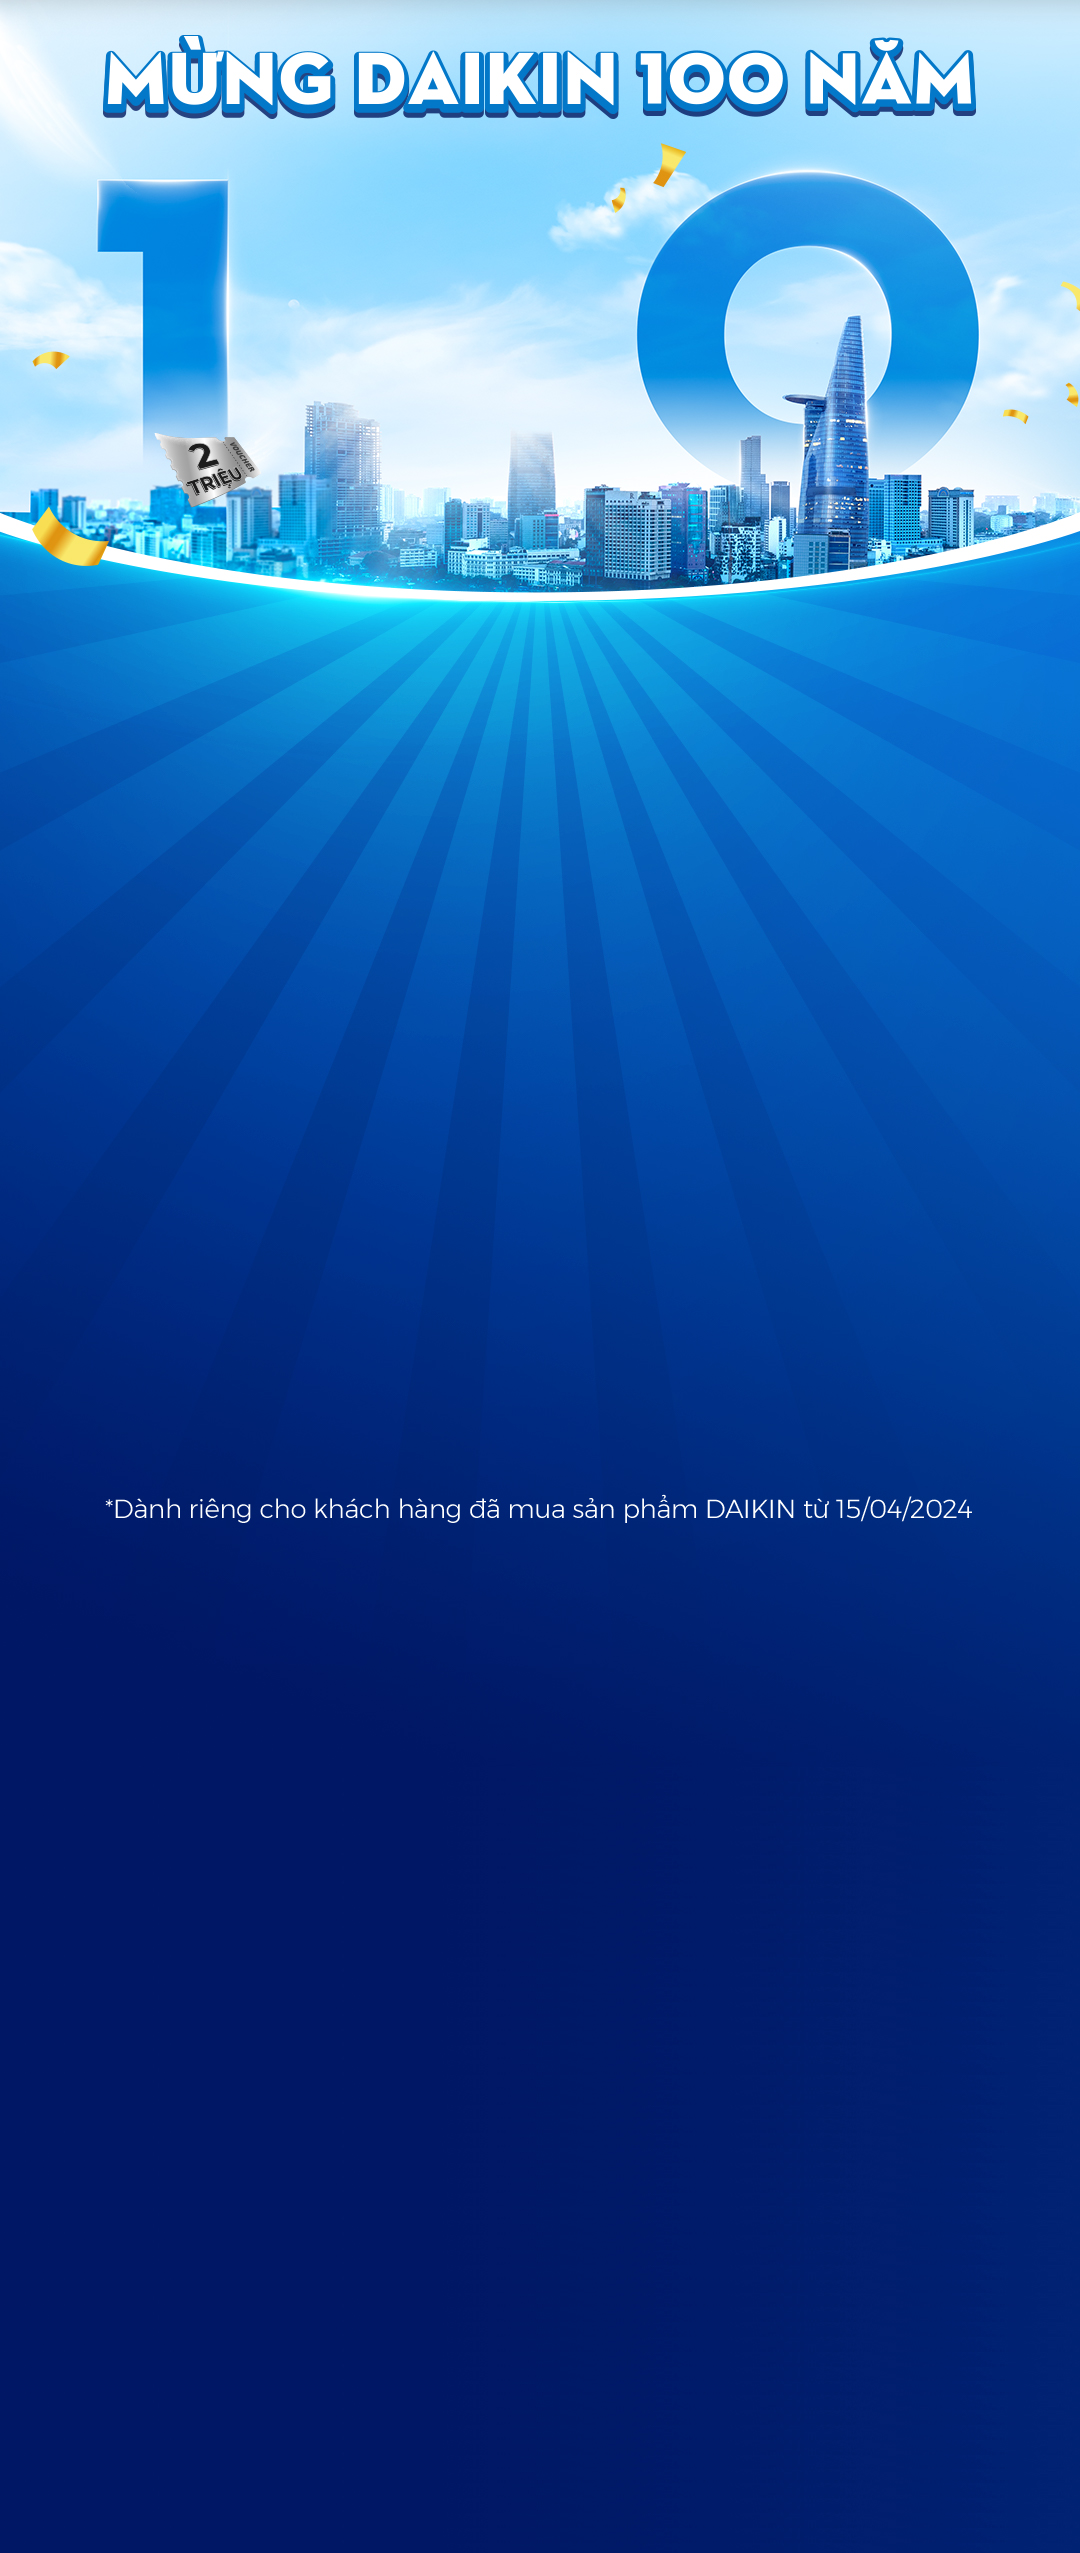
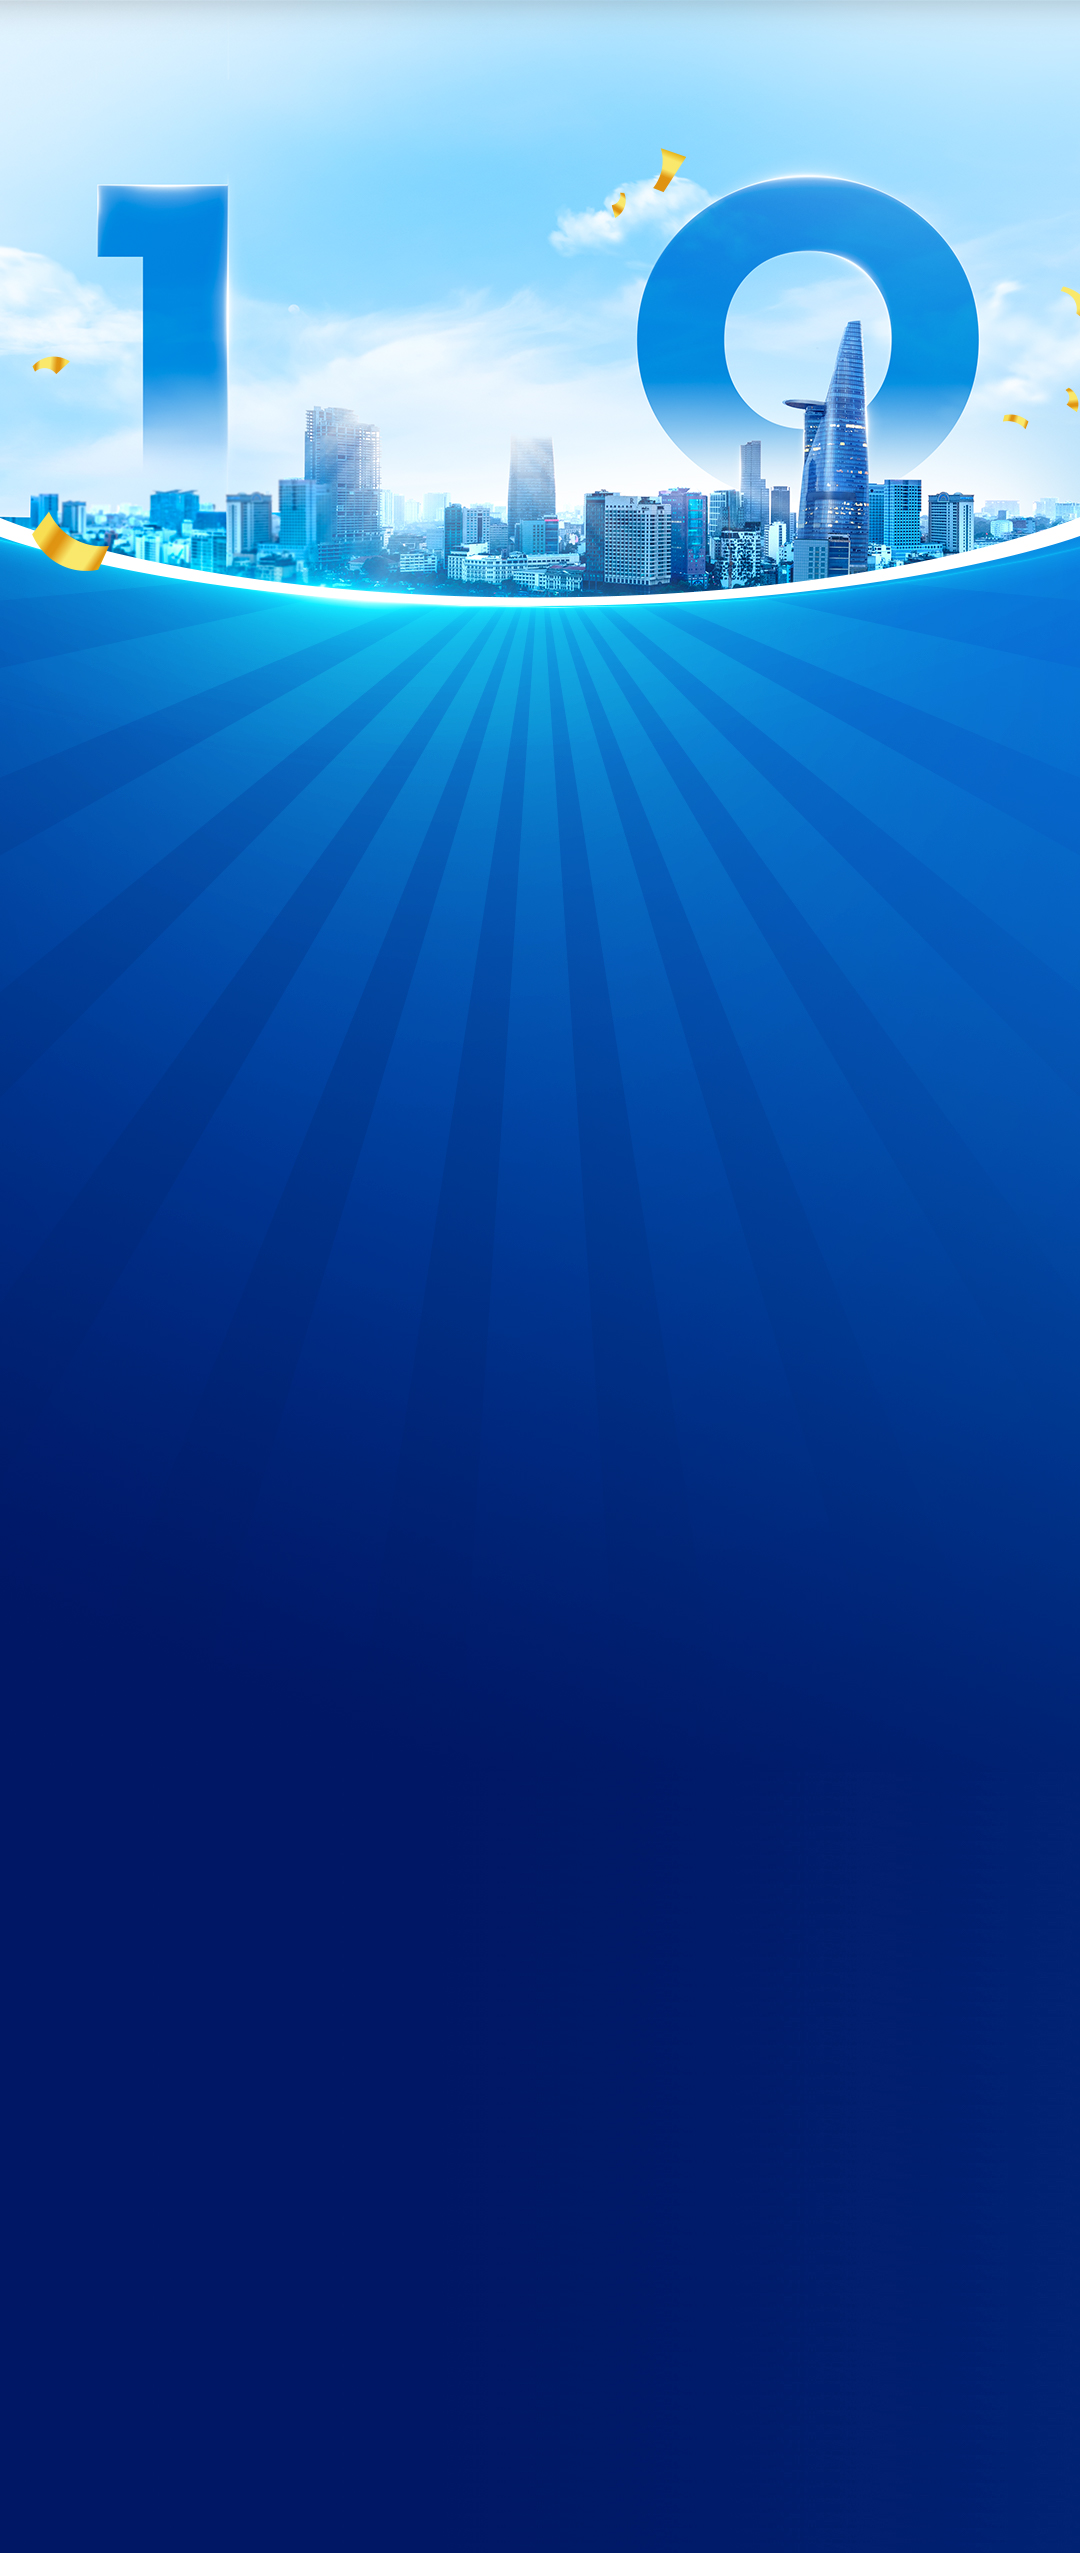
update hiệu ứng trang chủ

Changed region(s): [[0.0, 0.0, 1.0, 0.2476], [0.9778, 0.0928, 1.0, 0.1238], [0.0306, 0.1238, 0.0611, 0.1547]]

diff --git a/css/style.css b/css/style.css
@@ -1320,6 +1320,7 @@ p.error-2{
     width: 24%;
     left: 31%;
     top: 38%;
+    z-index: 3;
   }
   .light-hlc9{
     position: absolute;
@@ -2724,9 +2725,7 @@ p.error-2{
   .page-home .bg-desktop{
     display: none;
   }
-  .voucher-lca{
-    display: none;
-  }
+
   .page-home .bg-mb{
     display: block;
   }
@@ -3007,46 +3006,7 @@ p.error-2{
        }*/
        
    }
-   .voucher-lca{
-      animation: voucher linear infinite 10s;
-      position: absolute;
-      top: 35vw;
-      left: 13vw;
-      z-index: 15;
-      width: 8vw;
-   }
-   @keyframes voucher {
-       from {
-           left: 22vw;
-           top: 27vw;
-           width: 2%;
-           opacity: 0;
-       }
-       25% {
-         opacity: 0;
-           left: 22vw;
-           top: 27vw;
-           width: 2%;
-       }
-       29%{ 
-          left: 13vw;
-          top: 30vw;
-          width: 10%;
-          opacity: 1;
-       }
-       30%,40%,50%,60%,70%,80%,90%,100%{
-         opacity: 1;
-          left: 13vw;
-          top: 30vw;
-          width: 9%;
-       }
-       35%,45%,55%,65%,75%,85%,95%{
-          opacity: 1;
-          left: 13vw;
-          top: 30vw;
-          width: 10%;
-       }
-   }
+   
    .text-3lca{
       width: 34%;
       position: absolute;
@@ -3125,7 +3085,182 @@ p.error-2{
      background-size: 100% 100%;
    }
 }
+.text-1damb{
+  display: none;
+}
+.voucher-lca{
+   animation: voucher linear infinite 10s;
+   position: absolute;
+   top: 35vw;
+   left: 13vw;
+   z-index: 15;
+   width: 8vw;
+}
+@keyframes voucher {
+    from {
+        left: 22vw;
+        top: 27vw;
+        width: 2%;
+        opacity: 0;
+    }
+    25% {
+      opacity: 0;
+        left: 22vw;
+        top: 27vw;
+        width: 2%;
+    }
+    29%{ 
+       left: 13vw;
+       top: 30vw;
+       width: 10%;
+       opacity: 1;
+    }
+    30%,40%,50%,60%,70%,80%,90%,100%{
+      opacity: 1;
+       left: 13vw;
+       top: 30vw;
+       width: 9%;
+    }
+    35%,45%,55%,65%,75%,85%,95%{
+       opacity: 1;
+       left: 13vw;
+       top: 30vw;
+       width: 10%;
+    }
+}
 
+@media screen and (max-width: 768px){
+  .text-1lca{
+    width: 81%;
+    top: 3.8vw;
+  }
+  .light-3l29{
+    display: none;
+  }
+  .text-1damb{
+    display: block;
+    z-index: 1;
+    position: absolute;
+    top: 57vw;
+    left: 10%;
+    width: 80%;
+    animation: qtq linear infinite 10s;
+  }
+  @keyframes  qtq{
+      0%{
+        opacity:0;
+        transform:scale3d(.3,.3,.3);
+      }
+      12%{
+        opacity:0;
+        transform:scale3d(.3,.3,.3);
+      }
+      15%{
+        opacity:1;
+        transform:scale3d(1,1,1);
+      }
+      57%{
+        opacity:1;
+        transform:scale3d(1,1,1);
+      }
+      100%{
+        opacity:1;
+        transform:scale3d(1,1,1);
+      }
+  }
+  .text-2lca{
+    animation: zoom-text-2 linear infinite 10s;
+  }
+  @keyframes  zoom-text-2{
+      0%{
+        opacity:0;
+        transform:scale3d(.3,.3,.3);
+      }
+      16%{
+        opacity:0;
+        transform:scale3d(.3,.3,.3);
+      }
+      19%{
+        opacity:1;
+        transform:scale3d(1,1,1);
+      }
+      57%{
+        opacity:1;
+        transform:scale3d(1,1,1);
+      }
+      100%{
+        opacity:1;
+        transform:scale3d(1,1,1);
+      }
+  }
+  .text-3lca{
+     animation: zoom-text-3 linear infinite 10s;
+  }
+  @keyframes  zoom-text-3{
+      0%{
+        opacity:0;
+        transform:scale3d(.3,.3,.3);
+      }
+      20%{
+        opacity:0;
+        transform:scale3d(.3,.3,.3);
+      }
+      23%{
+        opacity:1;
+        transform:scale3d(1,1,1);
+      }
+      57%{
+        opacity:1;
+        transform:scale3d(1,1,1);
+      }
+      100%{
+        opacity:1;
+        transform:scale3d(1,1,1);
+      }
+  }
+  @keyframes voucher {
+      from {
+          left: 23vw;
+          top: 38vw;
+          width: 1%;
+          opacity: 0;
+      }
+      25% {
+        opacity: 0;
+          left: 23vw;
+          top: 38vw;
+          width: 1%;
+      }
+      29%{ 
+         left: 14vw;
+         top: 38.5vw;
+         width: 18%;
+         opacity: 1;
+      }
+      30%,40%,50%,60%,70%,80%,90%,100%{
+        opacity: 1;
+         left: 14vw;
+         top: 38.5vw;
+         width: 16%;
+      }
+      35%,45%,55%,65%,75%,85%,95%{
+         opacity: 1;
+         left: 14vw;
+         top: 38.5vw;
+         width: 18%;
+      }
+  }
+  .text-hl{
+    font-family: "Montserrat", sans-serif;
+    top: 138vw;
+    position: absolute;
+    color: #FFF;
+    font-weight: 300;
+    left: 10%;
+    z-index: 1;
+    font-size: 2.32vw;
+  }
+}
 
 
 

diff --git a/trang-chu.html b/trang-chu.html
@@ -63,14 +63,15 @@
                 <img class="vang-5" src="./images/vong-quay/vang-5.png">
                 <img class="vang-6" src="./images/vong-quay/vang-6.png">
                 <img class="voucher-lca" src="./images/vong-quay/voucher.png">
-                <img class="text-1lca md-desktop" src="./images/vong-quay/text-dt-1.png">
-                <img class="text-1lca md-mobile" src="./images/vong-quay/text-1.png">
+                <img class="text-1lca" src="./images/vong-quay/text-dt-1.png">
+                <img class="text-1damb" src="./images/vong-quay/text-1.png">
                 <img class="text-2lca md-desktop" src="./images/vong-quay/text-dt-2.png">
                 <img class="text-2lca md-mobile" src="./images/vong-quay/text-2.png">
                 <img class="text-3lca md-desktop" src="./images/vong-quay/text-dt-3.png">
                 <img class="text-3lca md-mobile" src="./images/vong-quay/text-3.png">
+                <p class="text-hl md-mobile">*Dành riêng cho khách hàng  đã mua sản phẩm DAIKIN từ 15/04/2024</p>
             </div>
-        
+            
         <div class="bot-banner bot-banner-2 clearfix">
             <p class="md-number" id="counter-number">12300</p>
             <p class="md-text">NGƯỜI CHƠI ĐÃ NHẬN ĐƯỢC QUÀ</p>
